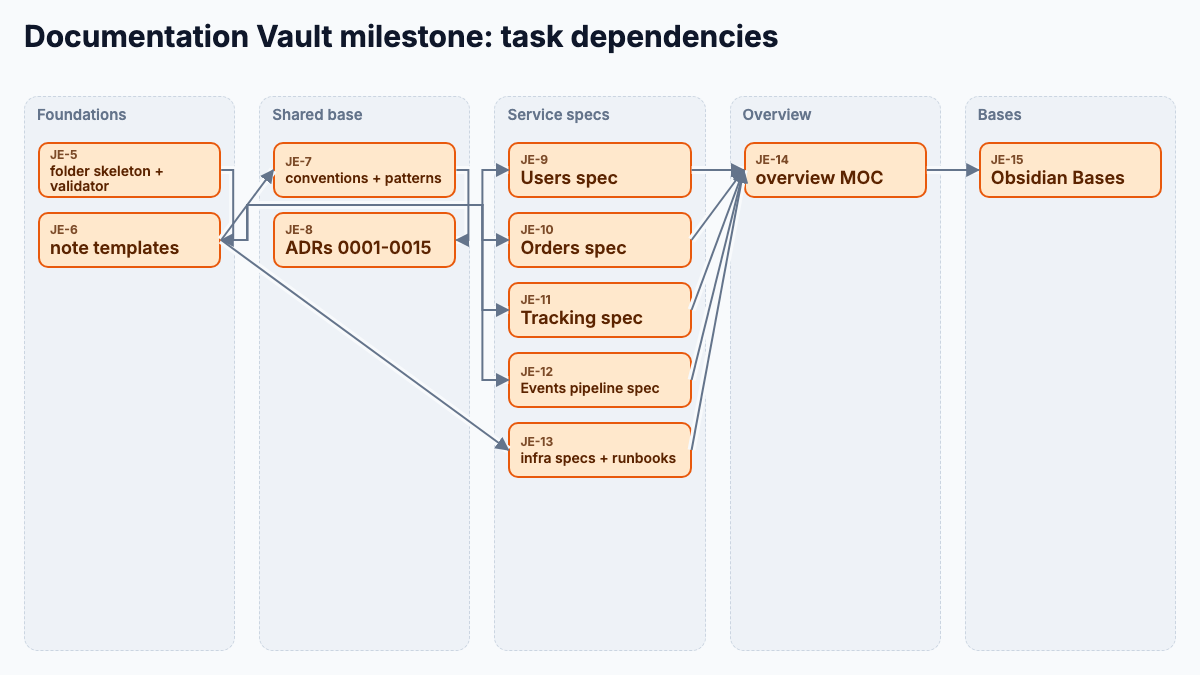
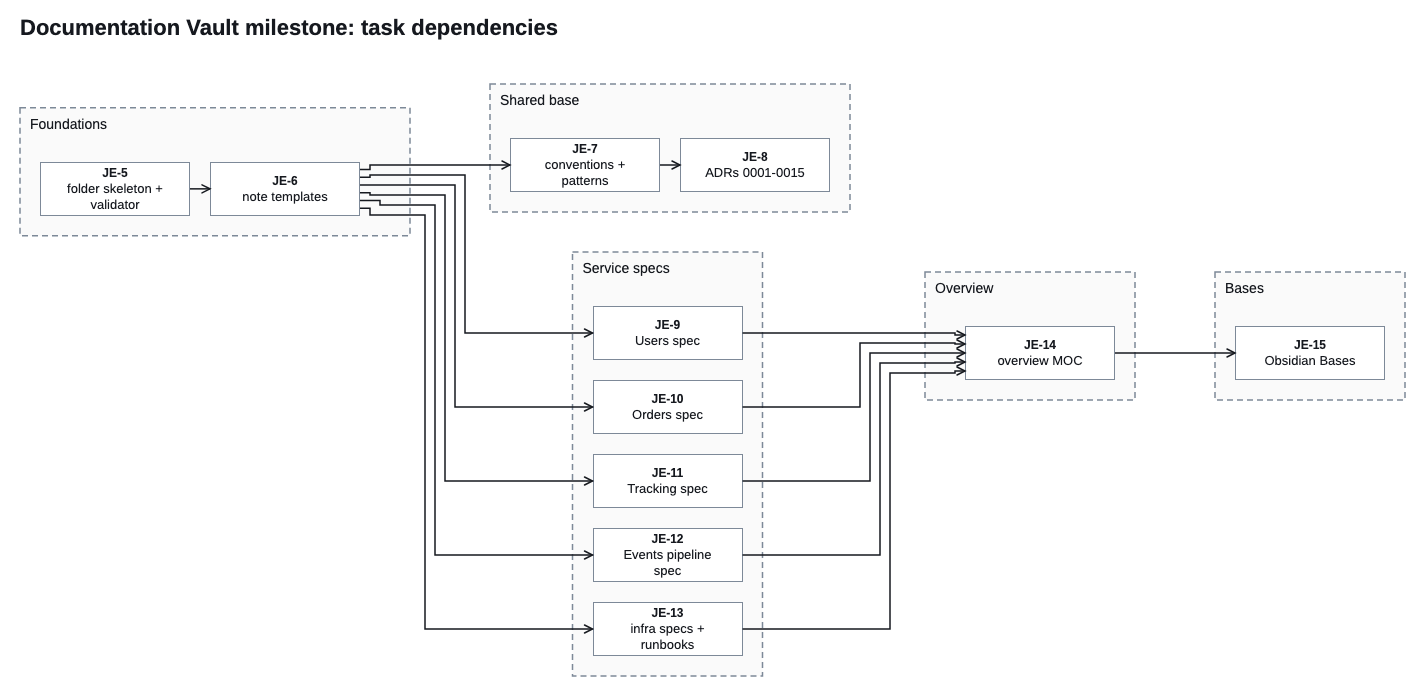
docs(vault): restyle milestone dependency diagrams in the AWS reference style
Plan: docs/superpowers/plans/2026-10-07-aws-style-diagrams.md

diff --git a/diagrams/src/data/milestones/users-service.ts b/diagrams/src/data/milestones/users-service.ts
@@ -1,53 +1,55 @@
-import type { DependencyData } from "../../schema";
+import type { z } from "zod";
+import type { AwsDiagramData } from "../../aws/schema";
 
-export const usersServiceDeps: DependencyData = {
+export const usersServiceDeps: z.input<typeof AwsDiagramData> = {
   title: "Users Service milestone: task dependencies",
-  phases: [
-    { id: "start", label: "pnpm and spike" },
-    { id: "pkg", label: "Packages, modules" },
-    { id: "schema", label: "Schema and infra" },
-    { id: "domain", label: "Domain logic" },
-    { id: "apply", label: "Package, apply, E2E" },
-    { id: "followup", label: "After E2E" },
+  direction: "RIGHT",
+  groups: [
+    { id: "start", kind: "phase", label: "pnpm and spike" },
+    { id: "pkg", kind: "phase", label: "Packages, modules" },
+    { id: "schema", kind: "phase", label: "Schema and infra" },
+    { id: "domain", kind: "phase", label: "Domain logic" },
+    { id: "apply", kind: "phase", label: "Package, apply, E2E" },
+    { id: "followup", kind: "phase", label: "After E2E" },
   ],
   // WHY this order: rows minimise arrows crossing tasks; JE-32 only needs JE-26, so it sits in the second column.
-  tasks: [
-    { id: "JE-25", label: "emulator spike (gate)", phase: "start" },
-    { id: "JE-26", label: "pnpm root", phase: "start" },
-    { id: "JE-28", label: "net/rds/cognito mods", phase: "pkg" },
-    { id: "JE-27", label: "users pkg", phase: "pkg" },
-    { id: "JE-32", label: "e2e harness", phase: "pkg" },
-    { id: "JE-30", label: "compute + gateway", phase: "schema" },
-    { id: "JE-29", label: "schema + primitives", phase: "schema" },
-    { id: "JE-34", label: "vault tags sync", phase: "domain" },
-    { id: "JE-33", label: "http + gRPC", phase: "domain" },
-    { id: "JE-31", label: "auth + domain + cmds", phase: "domain" },
-    { id: "JE-35", label: "Dockerfile + compose", phase: "apply" },
-    { id: "JE-36", label: "env/local + apply", phase: "apply" },
-    { id: "JE-37", label: "e2e specs", phase: "apply" },
-    { id: "JE-38", label: "Cognito webhook", phase: "followup" },
-    { id: "JE-39", label: "code quality refactor", phase: "followup" },
-    { id: "JE-40", label: "JE-39 follow-up debt", phase: "followup" },
-    { id: "post-je-40", label: "7 tasks, no issue", phase: "followup" },
+  nodes: [
+    { id: "JE-25", label: "emulator spike (gate)", icon: "task", group: "start" },
+    { id: "JE-26", label: "pnpm root", icon: "task", group: "start" },
+    { id: "JE-28", label: "net/rds/cognito mods", icon: "task", group: "pkg" },
+    { id: "JE-27", label: "users pkg", icon: "task", group: "pkg" },
+    { id: "JE-32", label: "e2e harness", icon: "task", group: "pkg" },
+    { id: "JE-30", label: "compute + gateway", icon: "task", group: "schema" },
+    { id: "JE-29", label: "schema + primitives", icon: "task", group: "schema" },
+    { id: "JE-34", label: "vault tags sync", icon: "task", group: "domain" },
+    { id: "JE-33", label: "http + gRPC", icon: "task", group: "domain" },
+    { id: "JE-31", label: "auth + domain + cmds", icon: "task", group: "domain" },
+    { id: "JE-35", label: "Dockerfile + compose", icon: "task", group: "apply" },
+    { id: "JE-36", label: "env/local + apply", icon: "task", group: "apply" },
+    { id: "JE-37", label: "e2e specs", icon: "task", group: "apply" },
+    { id: "JE-38", label: "Cognito webhook", icon: "task", group: "followup" },
+    { id: "JE-39", label: "code quality refactor", icon: "task", group: "followup" },
+    { id: "JE-40", label: "JE-39 follow-up debt", icon: "task", group: "followup" },
+    { id: "post-je-40", label: "7 tasks, no issue", icon: "task", group: "followup" },
   ],
-  deps: [
-    { from: "JE-26", to: "JE-27" },
-    { from: "JE-26", to: "JE-32" },
-    { from: "JE-25", to: "JE-28" },
-    { from: "JE-28", to: "JE-30" },
-    { from: "JE-27", to: "JE-29" },
-    { from: "JE-29", to: "JE-31" },
-    { from: "JE-29", to: "JE-34" },
-    { from: "JE-31", to: "JE-33" },
-    { from: "JE-33", to: "JE-35" },
-    { from: "JE-35", to: "JE-36" },
-    { from: "JE-30", to: "JE-36" },
-    { from: "JE-29", to: "JE-36" },
-    { from: "JE-36", to: "JE-37" },
-    { from: "JE-32", to: "JE-37" },
-    { from: "JE-37", to: "JE-38" },
-    { from: "JE-38", to: "JE-39" },
-    { from: "JE-39", to: "JE-40" },
-    { from: "JE-40", to: "post-je-40" },
+  edges: [
+    { id: "e-je-26-je-27", from: "JE-26", to: "JE-27" },
+    { id: "e-je-26-je-32", from: "JE-26", to: "JE-32" },
+    { id: "e-je-25-je-28", from: "JE-25", to: "JE-28" },
+    { id: "e-je-28-je-30", from: "JE-28", to: "JE-30" },
+    { id: "e-je-27-je-29", from: "JE-27", to: "JE-29" },
+    { id: "e-je-29-je-31", from: "JE-29", to: "JE-31" },
+    { id: "e-je-29-je-34", from: "JE-29", to: "JE-34" },
+    { id: "e-je-31-je-33", from: "JE-31", to: "JE-33" },
+    { id: "e-je-33-je-35", from: "JE-33", to: "JE-35" },
+    { id: "e-je-35-je-36", from: "JE-35", to: "JE-36" },
+    { id: "e-je-30-je-36", from: "JE-30", to: "JE-36" },
+    { id: "e-je-29-je-36", from: "JE-29", to: "JE-36" },
+    { id: "e-je-36-je-37", from: "JE-36", to: "JE-37" },
+    { id: "e-je-32-je-37", from: "JE-32", to: "JE-37" },
+    { id: "e-je-37-je-38", from: "JE-37", to: "JE-38" },
+    { id: "e-je-38-je-39", from: "JE-38", to: "JE-39" },
+    { id: "e-je-39-je-40", from: "JE-39", to: "JE-40" },
+    { id: "e-je-40-post-je-40", from: "JE-40", to: "post-je-40" },
   ],
 };

diff --git a/diagrams/src/data/milestones/documentation-vault.ts b/diagrams/src/data/milestones/documentation-vault.ts
@@ -1,41 +1,43 @@
-import type { DependencyData } from "../../schema";
+import type { z } from "zod";
+import type { AwsDiagramData } from "../../aws/schema";
 
-export const documentationVaultDeps: DependencyData = {
+export const documentationVaultDeps: z.input<typeof AwsDiagramData> = {
   title: "Documentation Vault milestone: task dependencies",
-  phases: [
-    { id: "foundations", label: "Foundations" },
-    { id: "shared", label: "Shared base" },
-    { id: "specs", label: "Service specs" },
-    { id: "overview", label: "Overview" },
-    { id: "bases", label: "Bases" },
+  direction: "RIGHT",
+  groups: [
+    { id: "foundations", kind: "phase", label: "Foundations" },
+    { id: "shared", kind: "phase", label: "Shared base" },
+    { id: "specs", kind: "phase", label: "Service specs" },
+    { id: "overview", kind: "phase", label: "Overview" },
+    { id: "bases", kind: "phase", label: "Bases" },
   ],
-  tasks: [
-    { id: "JE-5", label: "folder skeleton + validator", phase: "foundations" },
-    { id: "JE-6", label: "note templates", phase: "foundations" },
-    { id: "JE-7", label: "conventions + patterns", phase: "shared" },
-    { id: "JE-8", label: "ADRs 0001-0015", phase: "shared" },
-    { id: "JE-9", label: "Users spec", phase: "specs" },
-    { id: "JE-10", label: "Orders spec", phase: "specs" },
-    { id: "JE-11", label: "Tracking spec", phase: "specs" },
-    { id: "JE-12", label: "Events pipeline spec", phase: "specs" },
-    { id: "JE-13", label: "infra specs + runbooks", phase: "specs" },
-    { id: "JE-14", label: "overview MOC", phase: "overview" },
-    { id: "JE-15", label: "Obsidian Bases", phase: "bases" },
+  nodes: [
+    { id: "JE-5", label: "folder skeleton + validator", icon: "task", group: "foundations" },
+    { id: "JE-6", label: "note templates", icon: "task", group: "foundations" },
+    { id: "JE-7", label: "conventions + patterns", icon: "task", group: "shared" },
+    { id: "JE-8", label: "ADRs 0001-0015", icon: "task", group: "shared" },
+    { id: "JE-9", label: "Users spec", icon: "task", group: "specs" },
+    { id: "JE-10", label: "Orders spec", icon: "task", group: "specs" },
+    { id: "JE-11", label: "Tracking spec", icon: "task", group: "specs" },
+    { id: "JE-12", label: "Events pipeline spec", icon: "task", group: "specs" },
+    { id: "JE-13", label: "infra specs + runbooks", icon: "task", group: "specs" },
+    { id: "JE-14", label: "overview MOC", icon: "task", group: "overview" },
+    { id: "JE-15", label: "Obsidian Bases", icon: "task", group: "bases" },
   ],
-  deps: [
-    { from: "JE-5", to: "JE-6" },
-    { from: "JE-6", to: "JE-7" },
-    { from: "JE-7", to: "JE-8" },
-    { from: "JE-6", to: "JE-9" },
-    { from: "JE-6", to: "JE-10" },
-    { from: "JE-6", to: "JE-11" },
-    { from: "JE-6", to: "JE-12" },
-    { from: "JE-6", to: "JE-13" },
-    { from: "JE-9", to: "JE-14" },
-    { from: "JE-10", to: "JE-14" },
-    { from: "JE-11", to: "JE-14" },
-    { from: "JE-12", to: "JE-14" },
-    { from: "JE-13", to: "JE-14" },
-    { from: "JE-14", to: "JE-15" },
+  edges: [
+    { id: "e-je-5-je-6", from: "JE-5", to: "JE-6" },
+    { id: "e-je-6-je-7", from: "JE-6", to: "JE-7" },
+    { id: "e-je-7-je-8", from: "JE-7", to: "JE-8" },
+    { id: "e-je-6-je-9", from: "JE-6", to: "JE-9" },
+    { id: "e-je-6-je-10", from: "JE-6", to: "JE-10" },
+    { id: "e-je-6-je-11", from: "JE-6", to: "JE-11" },
+    { id: "e-je-6-je-12", from: "JE-6", to: "JE-12" },
+    { id: "e-je-6-je-13", from: "JE-6", to: "JE-13" },
+    { id: "e-je-9-je-14", from: "JE-9", to: "JE-14" },
+    { id: "e-je-10-je-14", from: "JE-10", to: "JE-14" },
+    { id: "e-je-11-je-14", from: "JE-11", to: "JE-14" },
+    { id: "e-je-12-je-14", from: "JE-12", to: "JE-14" },
+    { id: "e-je-13-je-14", from: "JE-13", to: "JE-14" },
+    { id: "e-je-14-je-15", from: "JE-14", to: "JE-15" },
   ],
 };

diff --git a/diagrams/src/data/milestones/services-infra-scaffold.ts b/diagrams/src/data/milestones/services-infra-scaffold.ts
@@ -1,28 +1,30 @@
-import type { DependencyData } from "../../schema";
+import type { z } from "zod";
+import type { AwsDiagramData } from "../../aws/schema";
 
-export const servicesInfraScaffoldDeps: DependencyData = {
+export const servicesInfraScaffoldDeps: z.input<typeof AwsDiagramData> = {
   title: "Services and Infra Scaffold milestone: task dependencies",
-  phases: [
-    { id: "scaffolds", label: "Service scaffolds" },
-    { id: "orchestration", label: "Orchestration" },
-    { id: "infra", label: "Infrastructure" },
-    { id: "tooling", label: "Tooling" },
+  direction: "RIGHT",
+  groups: [
+    { id: "scaffolds", kind: "phase", label: "Service scaffolds" },
+    { id: "orchestration", kind: "phase", label: "Orchestration" },
+    { id: "infra", kind: "phase", label: "Infrastructure" },
+    { id: "tooling", kind: "phase", label: "Tooling" },
   ],
-  tasks: [
-    { id: "JE-17", label: "Users scaffold", phase: "scaffolds" },
-    { id: "JE-18", label: "Orders scaffold", phase: "scaffolds" },
-    { id: "JE-19", label: "Tracking scaffold", phase: "scaffolds" },
-    { id: "JE-20", label: "events-pipeline scaffold", phase: "scaffolds" },
-    { id: "JE-22", label: "root docker-compose", phase: "orchestration" },
-    { id: "JE-21", label: "infra scaffold", phase: "infra" },
-    { id: "JE-23", label: "skill discovery", phase: "tooling" },
-    { id: "JE-24", label: "install + preload skills", phase: "tooling" },
+  nodes: [
+    { id: "JE-17", label: "Users scaffold", icon: "task", group: "scaffolds" },
+    { id: "JE-18", label: "Orders scaffold", icon: "task", group: "scaffolds" },
+    { id: "JE-19", label: "Tracking scaffold", icon: "task", group: "scaffolds" },
+    { id: "JE-20", label: "events-pipeline scaffold", icon: "task", group: "scaffolds" },
+    { id: "JE-22", label: "root docker-compose", icon: "task", group: "orchestration" },
+    { id: "JE-21", label: "infra scaffold", icon: "task", group: "infra" },
+    { id: "JE-23", label: "skill discovery", icon: "task", group: "tooling" },
+    { id: "JE-24", label: "install + preload skills", icon: "task", group: "tooling" },
   ],
-  deps: [
-    { from: "JE-17", to: "JE-22" },
-    { from: "JE-18", to: "JE-22" },
-    { from: "JE-19", to: "JE-22" },
-    { from: "JE-20", to: "JE-22" },
-    { from: "JE-23", to: "JE-24" },
+  edges: [
+    { id: "e-je-17-je-22", from: "JE-17", to: "JE-22" },
+    { id: "e-je-18-je-22", from: "JE-18", to: "JE-22" },
+    { id: "e-je-19-je-22", from: "JE-19", to: "JE-22" },
+    { id: "e-je-20-je-22", from: "JE-20", to: "JE-22" },
+    { id: "e-je-23-je-24", from: "JE-23", to: "JE-24" },
   ],
 };

diff --git a/diagrams/src/data/milestones.catalog.ts b/diagrams/src/data/milestones.catalog.ts
@@ -7,8 +7,7 @@ export const milestoneEntries: CatalogEntry[] = [
   {
     id: "milestone-users-service-deps",
     title: "Users Service milestone dependencies",
-    primitive: "dependency",
-    animated: false,
+    primitive: "aws",
     output: "docs/plans/diagrams/users-service-deps",
     watches: ["docs/plans/users-service-milestone.md"],
     source: "diagrams/src/data/milestones/users-service.ts",
@@ -17,8 +16,7 @@ export const milestoneEntries: CatalogEntry[] = [
   {
     id: "milestone-services-infra-scaffold-deps",
     title: "Services and Infra Scaffold milestone dependencies",
-    primitive: "dependency",
-    animated: false,
+    primitive: "aws",
     output: "docs/plans/diagrams/services-infra-scaffold-deps",
     watches: ["docs/plans/services-infra-scaffold-milestone.md"],
     source: "diagrams/src/data/milestones/services-infra-scaffold.ts",
@@ -27,8 +25,7 @@ export const milestoneEntries: CatalogEntry[] = [
   {
     id: "milestone-documentation-vault-deps",
     title: "Documentation Vault milestone dependencies",
-    primitive: "dependency",
-    animated: false,
+    primitive: "aws",
     output: "docs/plans/diagrams/documentation-vault-deps",
     watches: ["docs/plans/documentation-vault-milestone.md"],
     source: "diagrams/src/data/milestones/documentation-vault.ts",
